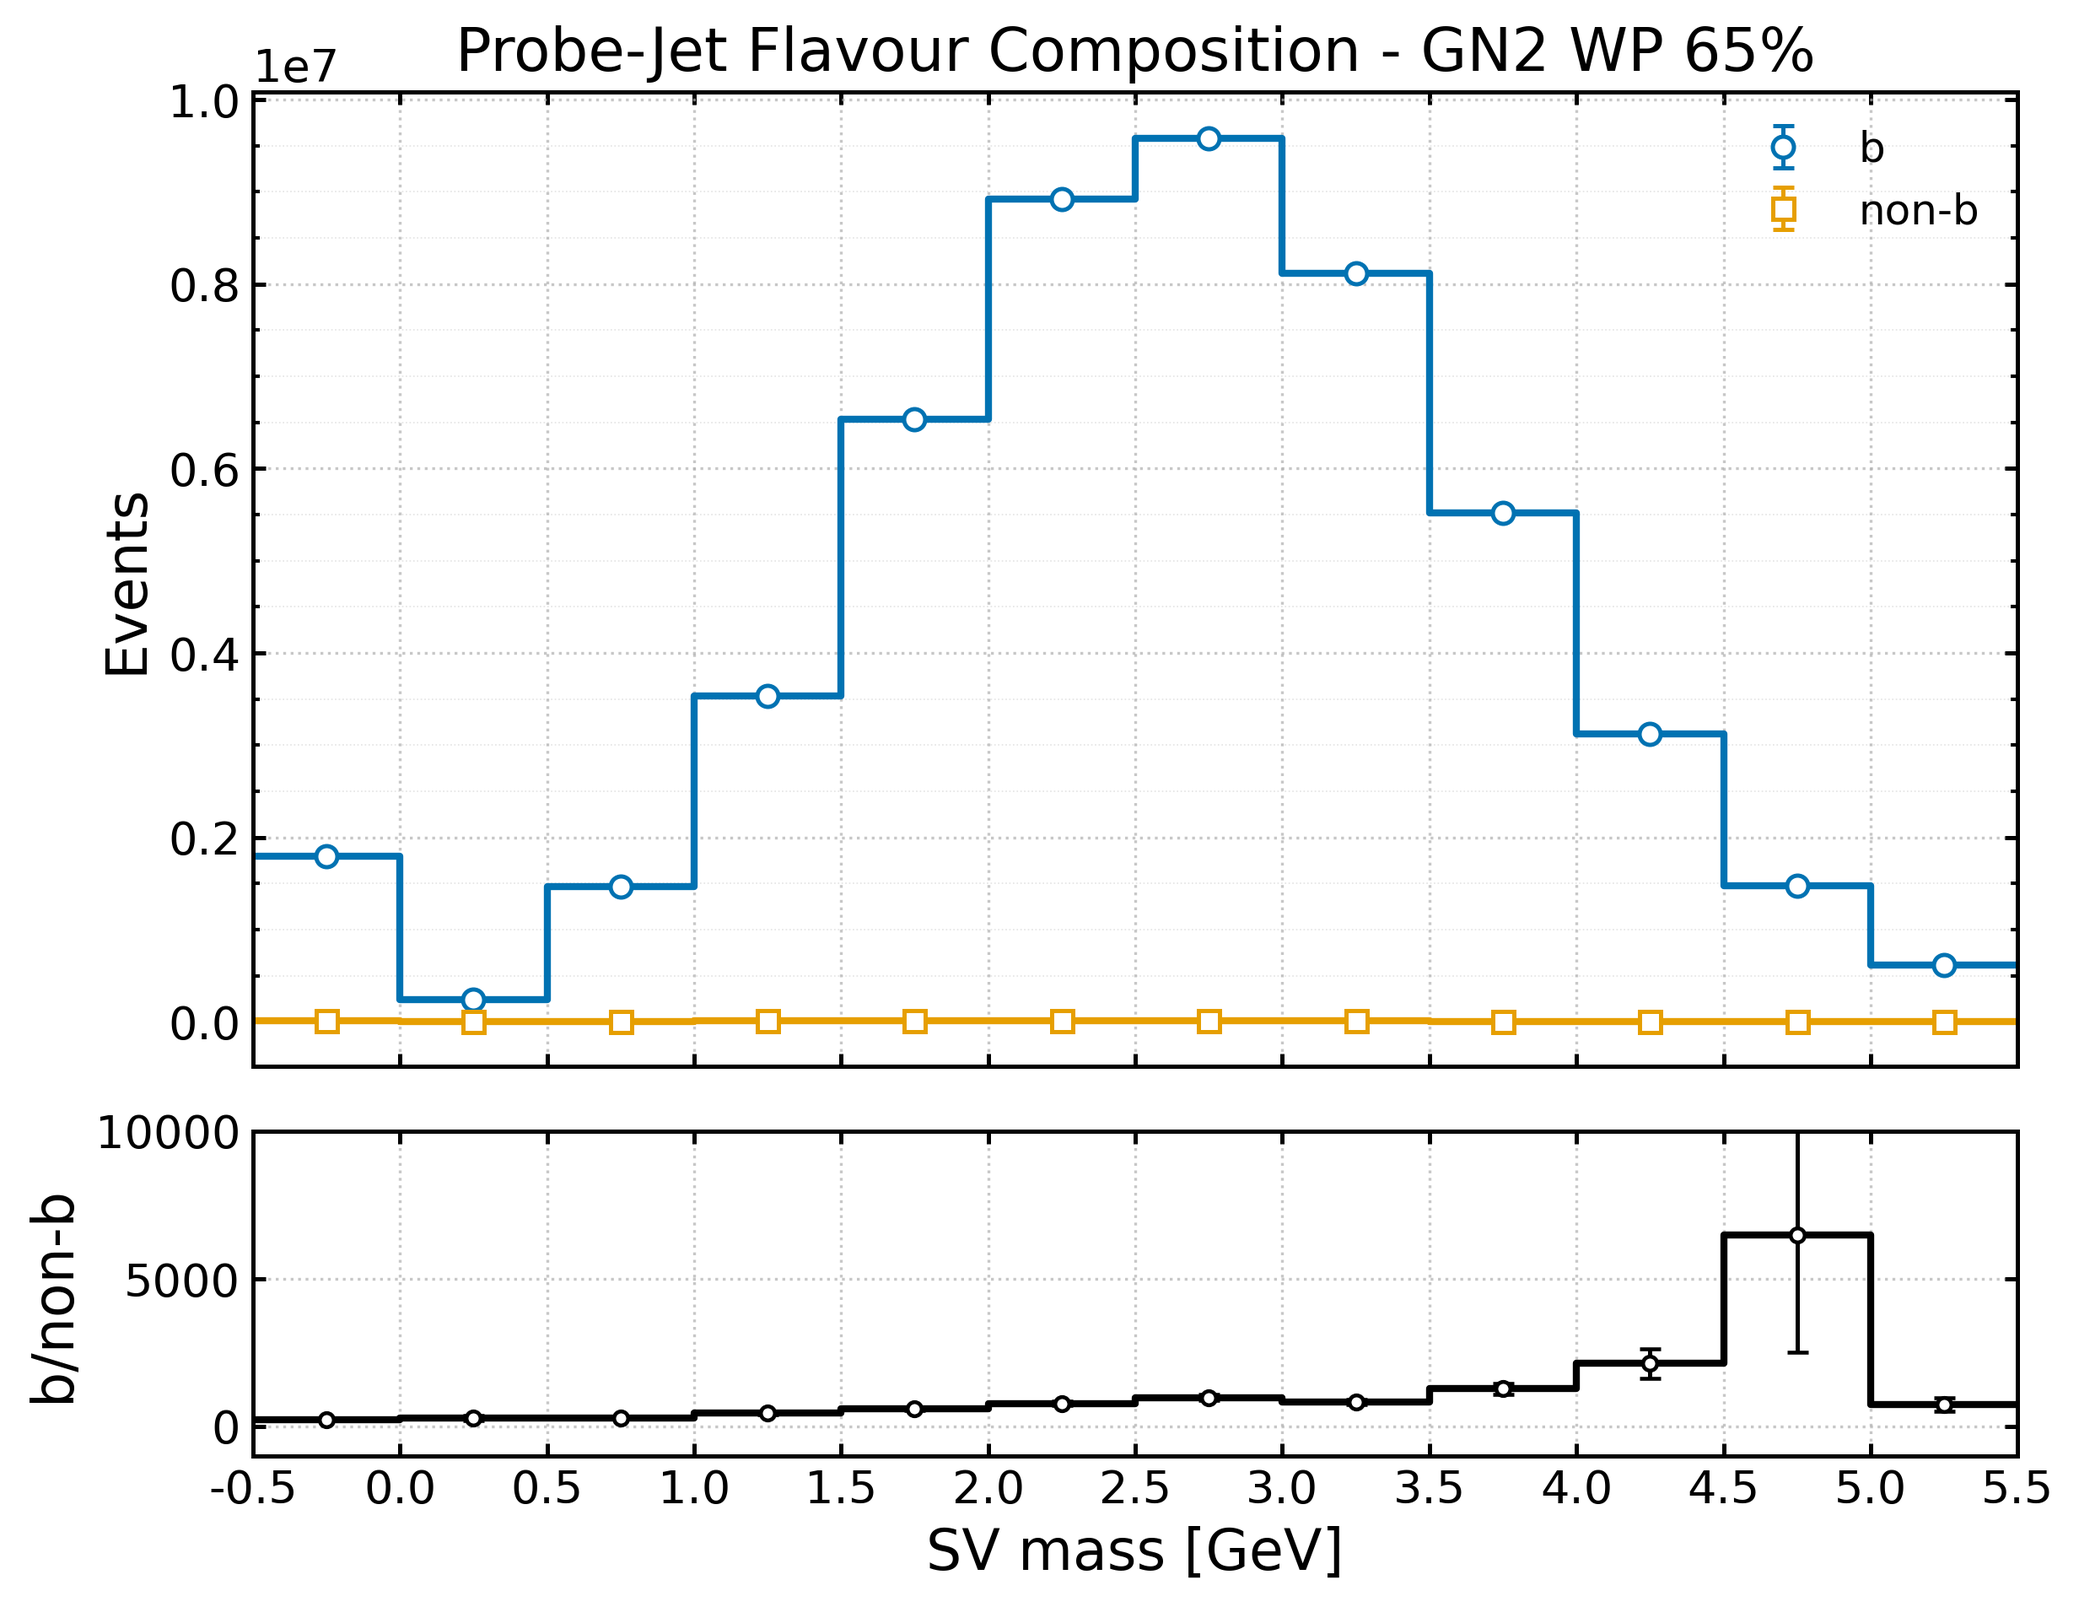
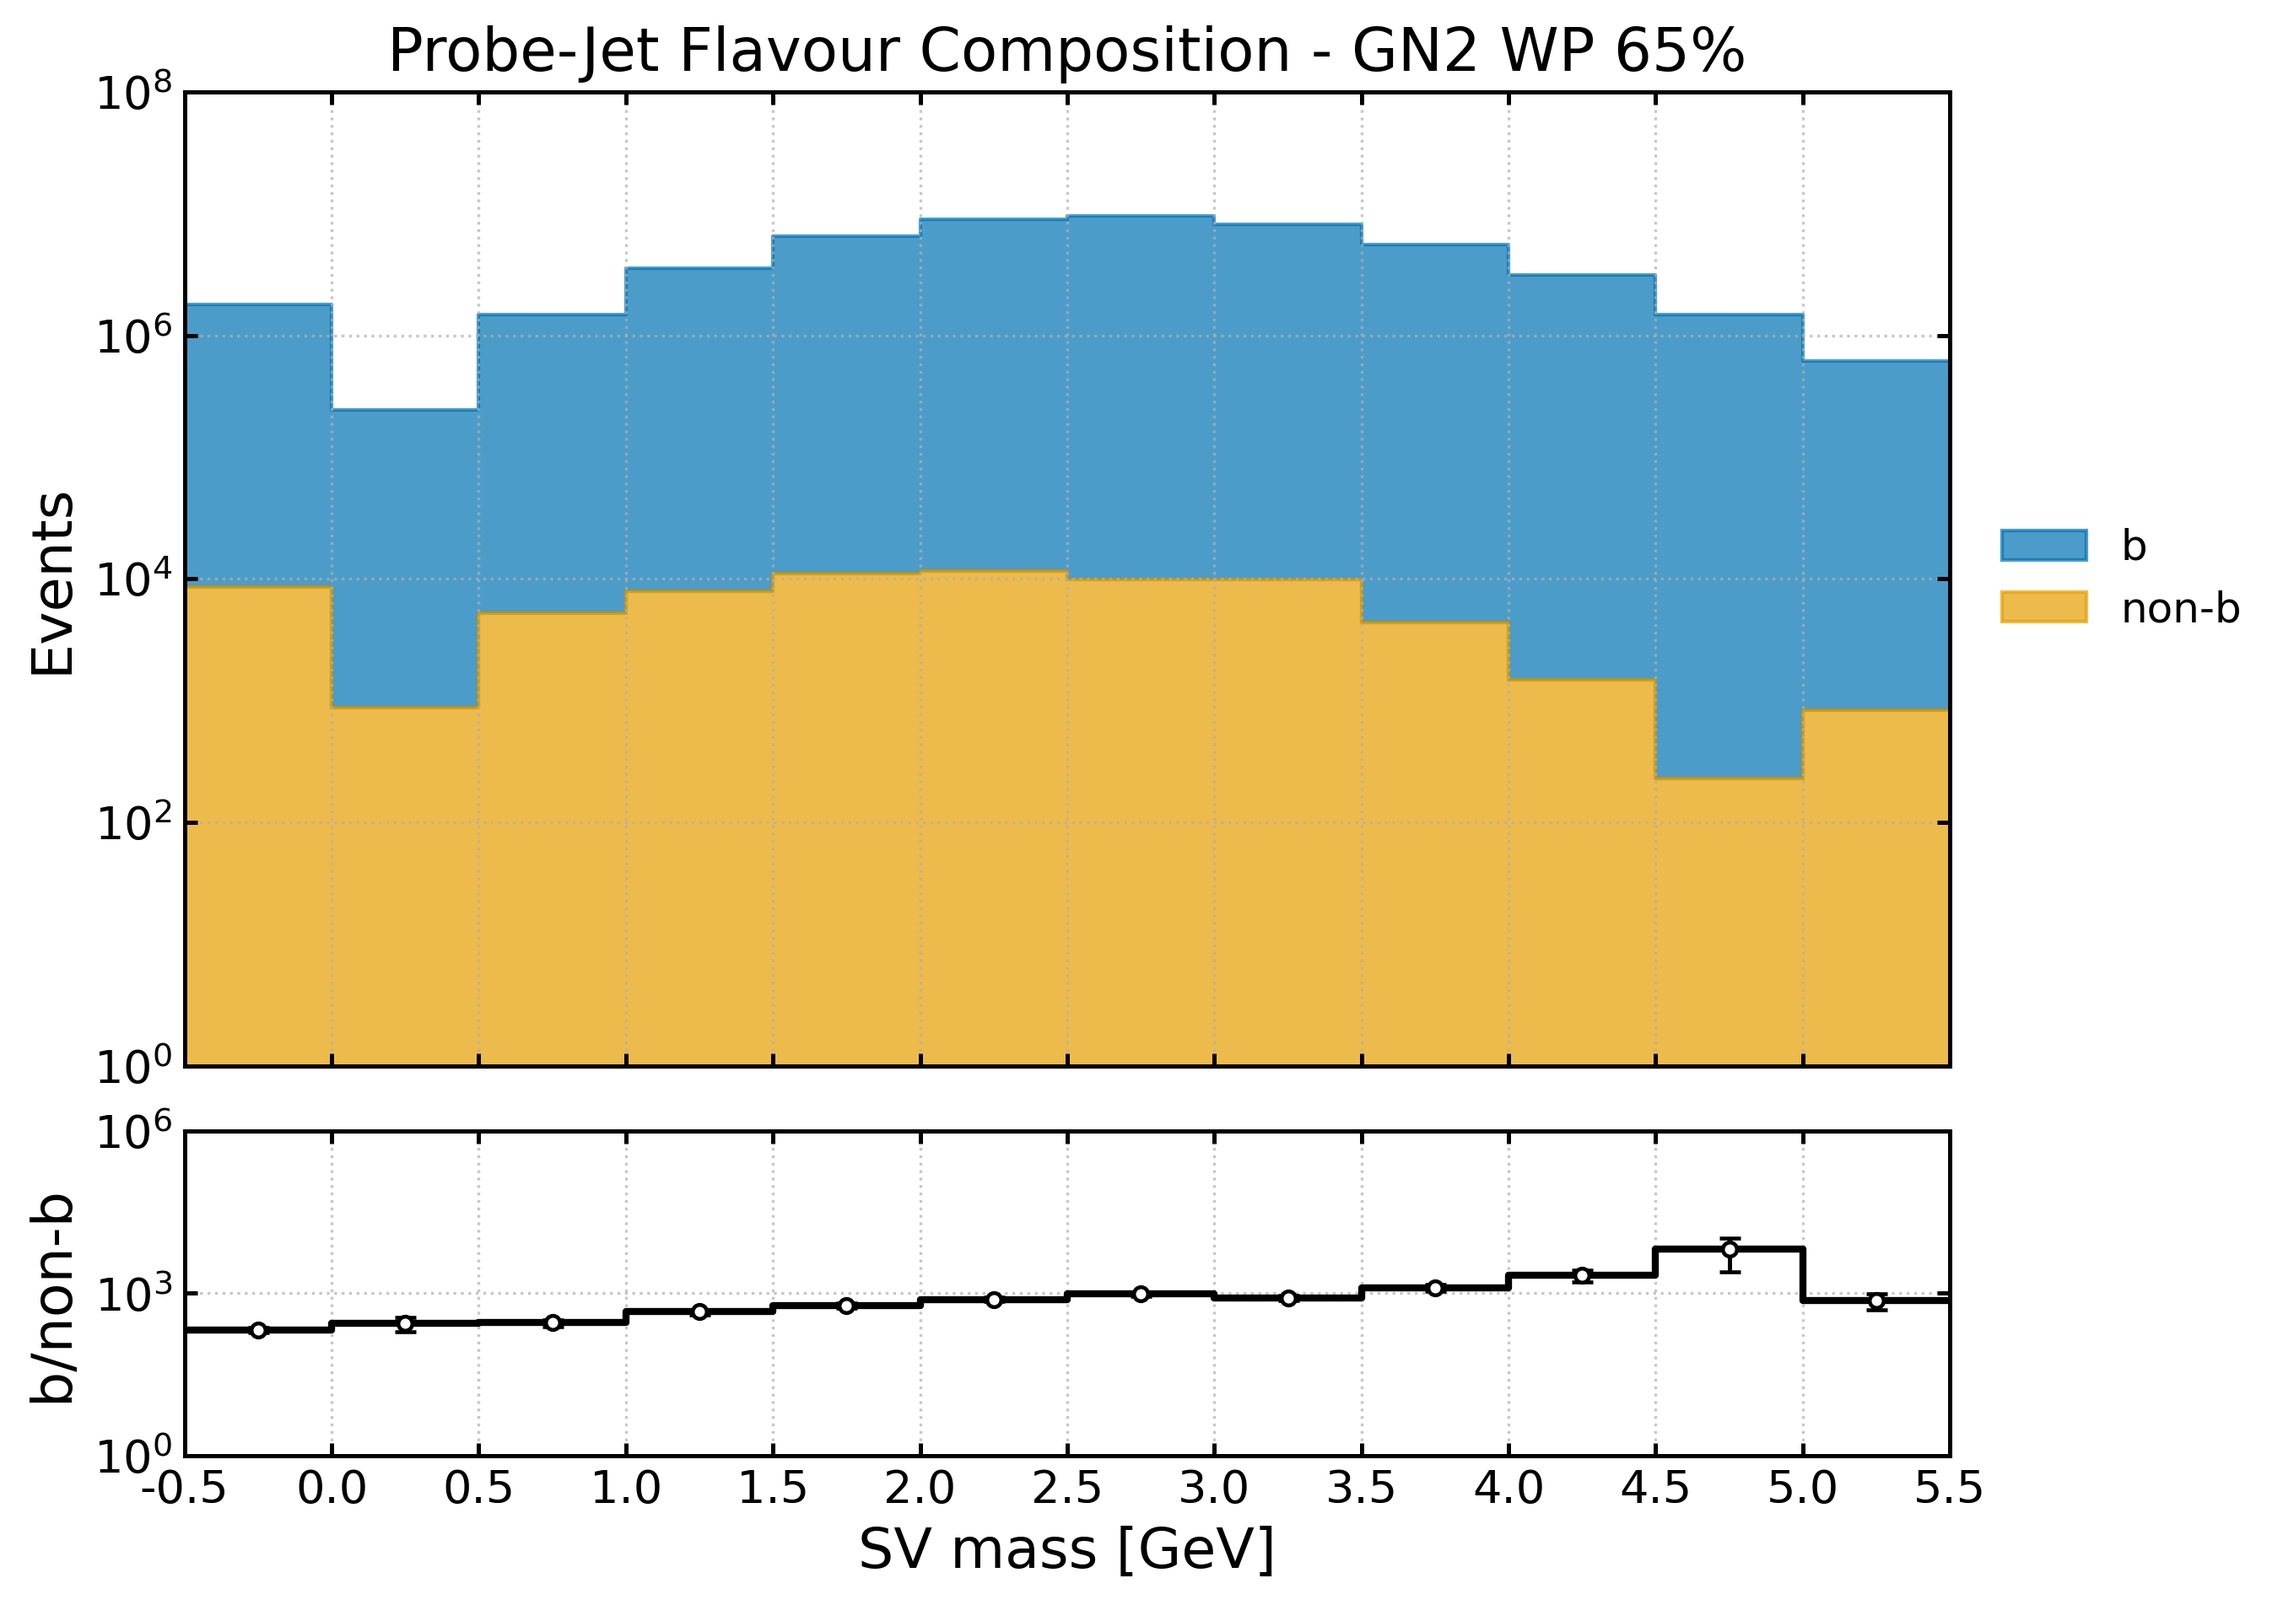
2.10.1 - Corrected the probe jet flavour comparison plot and made it a stacked bar histogram

diff --git a/GN2_SV_TagProbe_Plot.py b/GN2_SV_TagProbe_Plot.py
@@ -154,20 +154,53 @@ ax = fig.add_subplot(gs[0])
 rax = fig.add_subplot(gs[1], sharex=ax)
 
 # =================================================
-# Top: yields
+# Top: stacked yields
 # =================================================
-plot_with_errorbars(ax, pt, b, b_err, "b", "b")
-plot_with_errorbars(ax, pt, nb, nb_err, "nb", "non-b")
+total = b + nb
+total_err = np.sqrt(b_err**2 + nb_err**2)
+
+# b (stacked on top of non-b)
+ax.fill_between(
+    plot_edges,
+    np.r_[nb, nb[-1]],
+    np.r_[total, total[-1]],
+    step="post",
+    color=COLORS["b"],
+    alpha=0.7,
+    label="b",
+)
+
+# non-b (bottom)
+ax.fill_between(
+    plot_edges,
+    0,
+    np.r_[nb, nb[-1]],
+    step="post",
+    color=COLORS["nb"],
+    alpha=0.7,
+    label="non-b",
+)
+
+
 
 ax.set_ylabel("Events")
 ax.set_title(r"Probe-Jet Flavour Composition - GN2 WP 65%")
 ax.set_xlim(plot_edges[0], plot_edges[-1])
+ax.set_ylim(1e0, 1e8)
+ax.set_yscale("log", base=10)
 ax.tick_params(labelbottom=False)
 
 ax.grid(True, which="major", linestyle=":", linewidth=0.8, alpha=0.7)
 ax.grid(True, which="minor", linestyle=":", linewidth=0.4, alpha=0.35)
 ax.minorticks_on()
-ax.legend(loc="upper right", frameon=False)
+# ax.legend(loc="upper right", frameon=False)
+
+ax.legend(
+    loc="center left",
+    bbox_to_anchor=(1.02, 0.5),
+    borderaxespad=0.0,
+    frameon=False
+)
 
 # =================================================
 # Bottom: b/non-b ratio
@@ -200,7 +233,8 @@ rax.errorbar(
 
 rax.set_ylabel("b/non-b")
 rax.set_xlabel(r"SV mass [GeV]")
-rax.set_ylim(-1000.0, 10000.0)
+rax.set_ylim(1e0, 1e6)
+rax.set_yscale("log", base=10)
 rax.set_xlim(plot_edges[0], plot_edges[-1])
 
 rax.set_xticks(major_ticks)
